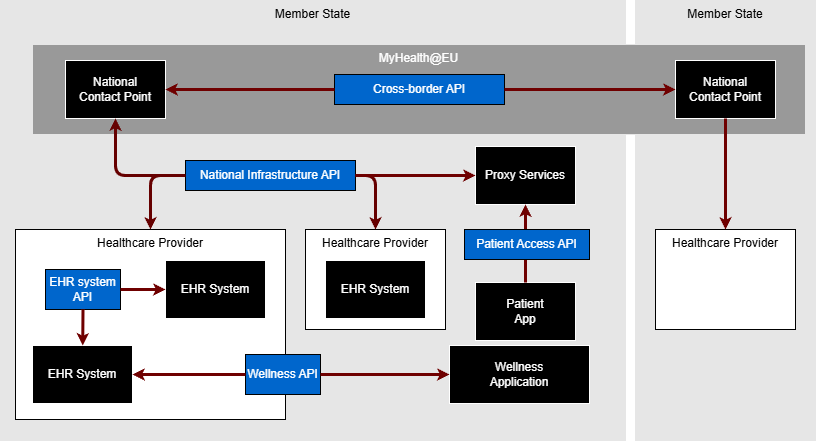
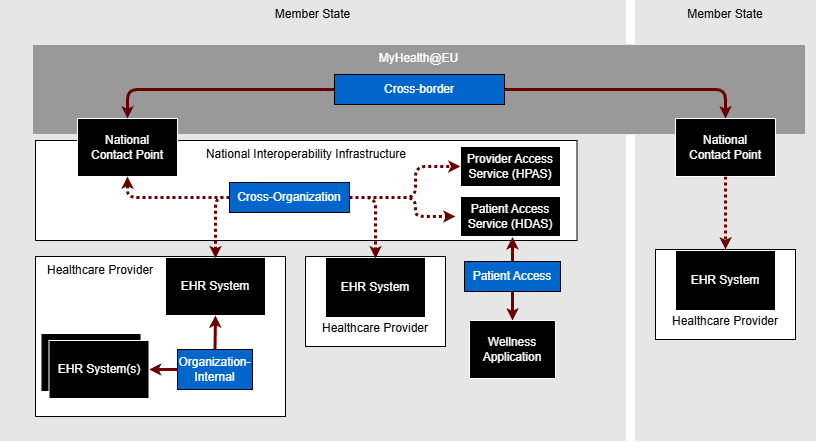
Clarify implementation landscape

diff --git a/input/pagecontent/implementation.md b/input/pagecontent/implementation.md
@@ -1,71 +1,77 @@
-This IG defines the API contract for EHR systems under EHDS. Each layer of the EHDS data exchange chain carries distinct regulatory obligations. This page describes where the EHR system API fits, who is responsible for what, and how the use cases below map to that chain.
+This IG defines the API contract for EHR systems under EHDS. The EHR system API is one part of a broader interoperability landscape: Member States operate national and cross-border infrastructure, healthcare providers deploy EHR systems, and EHR systems expose interoperability component capabilities that national and access-service infrastructure can use.
 
-### The EHDS Data Exchange Chain
+### The EHDS Interoperability Landscape
 
-EHDS data flows through several layers, from individual EHR systems up to cross-border exchange between Member States. The layers are:
+The diagram below shows the main EHDS actors and the API boundaries between them. Blue boxes represent API or scenario boundaries discussed by this IG.
 
----
+<div>
+  <figure class="figure">
+    <svg xmlns="http://www.w3.org/2000/svg" viewBox="0 0 816 442" class="figure-img img-responsive img-rounded center-block" style="max-width:100%; height:auto;" role="img" aria-labelledby="ehds-overview-title ehds-overview-desc">
+      <title id="ehds-overview-title">EHDS Overview</title>
+      <desc id="ehds-overview-desc">Overview diagram of EHDS deployment scenarios with links to related implementation pages.</desc>
+      <image href="EHDS-overview.drawio.png" width="816" height="442" preserveAspectRatio="xMidYMid meet" />
+      <a href="usecase-cross-border-ncp.html"><title>Cross-Border via NCP</title><rect x="334" y="74" width="170" height="30" fill="transparent" pointer-events="all" /></a>
+      <a href="usecase-cross-border-ncp.html"><title>National Contact Point</title><rect x="77" y="118" width="100" height="58" fill="transparent" pointer-events="all" /></a>
+      <a href="usecase-cross-border-ncp.html"><title>National Contact Point</title><rect x="675" y="118" width="100" height="58" fill="transparent" pointer-events="all" /></a>
+      <a href="member-state-architectures.html"><title>National Interoperability Infrastructure</title><rect x="35" y="140" width="542" height="100" fill="transparent" pointer-events="all" /></a>
+      <a href="usecase-cross-org.html"><title>Cross-Organization via National Infrastructure</title><rect x="229" y="182" width="120" height="30" fill="transparent" pointer-events="all" /></a>
+      <a href="usecase-health-professional-portal.html"><title>Health Professional Access Service</title><rect x="460" y="146" width="100" height="40" fill="transparent" pointer-events="all" /></a>
+      <a href="usecase-health-data-portal.html"><title>Health Data Access Service</title><rect x="460" y="196" width="100" height="40" fill="transparent" pointer-events="all" /></a>
+      <a href="usecase-health-data-portal.html"><title>Patient Access</title><rect x="464" y="261" width="96" height="30" fill="transparent" pointer-events="all" /></a>
+      <a href="usecase-wellness-app.html"><title>Wellness App Access</title><rect x="469" y="320" width="86" height="58" fill="transparent" pointer-events="all" /></a>
+      <a href="usecase-ehr-internal.html"><title>Organization-Internal Exchange</title><rect x="177" y="349" width="75" height="40" fill="transparent" pointer-events="all" /></a>
+    </svg>
+    <figcaption class="figure-caption"><em>Figure: EHDS Overview</em></figcaption>
+  </figure>
+  <p></p>
+</div>
 
-**EHR System** — *This IG*
+### EHDS Actors
 
-EHR systems store and serve patient health data in EEHRxF format. EHDS [Annex II §2.1–2.6](https://eur-lex.europa.eu/legal-content/EN/TXT/?uri=CELEX:32025R0327#anx_II) requires EHR systems to provide an API for access to and receipt of priority-category data. This IG specifies that API. EHR vendors demonstrate conformance via CE-marking self-declaration ([Arts. 25, 30, 39–41](https://eur-lex.europa.eu/legal-content/EN/TXT/?uri=CELEX:32025R0327)).
+**Member States** — *Infrastructure obligations*
 
-**Healthcare Organization** — *Described; not specified*
+Member States are responsible for operating the national and cross-border infrastructure that makes EHDS primary-use exchange work. In this landscape, that includes:
 
-Healthcare providers deploy one or more EHR systems. They connect those systems to national infrastructure. How they connect — directly, through an organizational gateway, or through a vendor-supplied facade — is an organizational decision. This IG describes common patterns but does not mandate a specific approach.
+- **MyHealth@EU and National Contact Points (NCPs):** Member States connect to the MyHealth@EU network through NCPs for cross-border exchange ([Art. 23](https://eur-lex.europa.eu/legal-content/EN/TXT/?uri=CELEX:32025R0327)). NCP-to-NCP exchange is governed by the [NCPeH API specification](https://build-fhir.ehdsi.eu/ncp-api/), not by this IG.
 
-**National Interoperability Infrastructure** — *Out of scope — Member State obligation*
+- **Access services:** Member States operate services for patient access and health professional access, including an Electronic Health Data Access Service ([Art. 4](https://eur-lex.europa.eu/legal-content/EN/TXT/?uri=CELEX:32025R0327)) and a Health Professional Access Service ([Art. 12](https://eur-lex.europa.eu/legal-content/EN/TXT/?uri=CELEX:32025R0327)). These services can act as consumers of the EHR system API; their service requirements are not specified here.
 
-Each Member State operates infrastructure that connects healthcare organizations to access services and to cross-border networks. This infrastructure may include document repositories, federated query layers, master patient indexes (MPIs), and authorization services. The design varies by Member State. [Art. 23](https://eur-lex.europa.eu/legal-content/EN/TXT/?uri=CELEX:32025R0327) places this obligation on Member States, not on EHR vendors. National infrastructure acts as a *consumer* of this IG's API; its own requirements are not specified here.
+- **National interoperability infrastructure:** Member States define how healthcare providers connect and how EEHRxF data is located, routed, aggregated, authorized, and exchanged nationally. This may include federated query services, central repositories, record locators, patient identity services, and authorization infrastructure. Those national architecture choices are out of scope for this IG, but this IG defines the EHR system API surface that such infrastructure can consume.
 
-**Access Services (EHDAS / HPAS)** — *Out of scope — Member State obligation*
+**Healthcare providers** — *EHR system deployment*
 
-Member States must establish an Electronic Health Data Access Service ([Art. 4](https://eur-lex.europa.eu/legal-content/EN/TXT/?uri=CELEX:32025R0327)) for patient access and a Health Professional Access Service ([Art. 12](https://eur-lex.europa.eu/legal-content/EN/TXT/?uri=CELEX:32025R0327)) for clinician access. Access services act as consumers of this IG's API. Wellness applications and patient apps connect through access service infrastructure, not directly to EHR systems. Access service requirements are out of scope for this IG.
+Healthcare providers deploy one or more EHR systems to support care delivery. They may expose the EHR system API directly, through an organizational gateway, through a vendor-supplied facade, or through a national infrastructure connection. This IG describes those deployment patterns but does not mandate the provider's internal architecture.
 
-**EHR System Implementation Approach** — *See [Relationship to XDS/FHIR Document Sharing](background-xds-fhir.html)*
+**EHR systems** — *EHDS interoperability component capability*
 
-EHR systems may implement this IG using a FHIR server (documents assembled on demand from clinical resources) or a document-centric system (documents persisted, optionally backed by XDS/XCA). Both approaches share the same API contract. This choice is orthogonal to organizational deployment topology.
+EHR systems are the product-level conformance target for this IG. EHDS [Annex II §2.1–2.6](https://eur-lex.europa.eu/legal-content/EN/TXT/?uri=CELEX:32025R0327#anx_II) requires EHR systems to provide and receive priority-category data in EEHRxF format through the European interoperability software component. This IG specifies the FHIR API contract for that capability.
 
----
+An EHR system may implement the API directly, or the capability may be delivered by an associated gateway or facade that is treated as part of the deployed EHR system capability. The backend implementation can be FHIR-server based, document-centric, XDS/XCA-backed, or hybrid; see [Relationship to XDS/FHIR Document Sharing](background-xds-fhir.html).
 
-**Cross-Border Exchange (MyHealth@EU / NCP)** — *Out of scope — separate specification*
+**Patient apps and wellness applications** — *Application-facing access*
 
-National Contact Points exchange data across borders via the MyHealth@EU network ([Art. 23](https://eur-lex.europa.eu/legal-content/EN/TXT/?uri=CELEX:32025R0327)). NCP-to-NCP exchange is governed by the [NCPeH API specification](https://build-fhir.ehdsi.eu/ncp-api/), not this IG. The national infrastructure layer connects EHR systems to the NCP; the EHR system API is the entry point at the bottom of that chain.
-
----
+Patient-facing applications and wellness applications interact with EHDS data through access-service infrastructure. This IG describes read access patterns using the same document and resource API transactions, but patient authentication, SMART App Launch mechanics, EU wallet integration, and patient data submission are outside this IG's scope. See [Wellness App Access](usecase-wellness-app.html) for the current boundary.
 
 ### Use Cases
 
-The following pages describe how this IG's API is used in specific deployment contexts. Each covers actors, workflow, technical flow, and scope boundaries.
+The pages below explain how the EHR system API appears in specific deployment scenarios. Each page identifies the actors involved, the technical flow, and what is deliberately out of scope.
 
-#### EHR System Deployment
+#### Deployment Scenarios
 
-- [**Organization-Internal Exchange**](usecase-ehr-internal.html) — EHR systems within a healthcare provider: direct deployment, gateway, and multi-product facade patterns.
+- [**Organization-Internal Exchange**](usecase-ehr-internal.html) — EHR systems within a healthcare provider. Covers direct deployment, organizational gateways, and multi-product facades. Scope: how a healthcare provider presents an EHR system API capability; not the provider's internal product architecture.
 
-- [**Cross-Organization via National Infrastructure**](usecase-cross-org.html) — EHR systems as nodes in national health data infrastructure; federated and central-repository patterns.
+- [**Cross-Organization via National Infrastructure**](usecase-cross-org.html) — EHR systems as nodes in Member State infrastructure. Covers federated query and central-repository patterns. Scope: how national infrastructure consumes the EHR system API; not a national infrastructure specification.
 
-- [**Cross-Border via NCP**](usecase-cross-border-ncp.html) — EU cross-border exchange via National Contact Points and MyHealth@EU.
+- [**Cross-Border via NCP**](usecase-cross-border-ncp.html) — Cross-border exchange through MyHealth@EU and National Contact Points. Scope: how this IG supports the national-side retrieval step; not the NCP-to-NCP API.
 
-#### Access Service Contexts
+#### Access Service Scenarios
 
-- [**Health Professional Access Service**](usecase-health-professional-portal.html) — Healthcare professionals accessing EEHRxF data through a professional portal.
+- [**Health Professional Access Service**](usecase-health-professional-portal.html) — Health professionals access EEHRxF data through a Member State access service. Scope: HPAS as a consumer of the EHR system API; not HPAS product requirements.
 
-- [**Health Data Access Service**](usecase-health-data-portal.html) — Patients accessing their health data through a national access service.
+- [**Health Data Access Service**](usecase-health-data-portal.html) — Patients access their own health data through a Member State access service. Scope: HDAS as a consumer of the EHR system API; not patient portal UX, identity proofing, or national consent policy.
 
-- [**Wellness App Access**](usecase-wellness-app.html) — Patient-facing applications reading health data; authentication brokered by access service infrastructure.
+- [**Wellness App Access**](usecase-wellness-app.html) — Wellness or personal health applications read patient data through access-service infrastructure. Scope: read access using this IG's API transactions; not patient-submitted write flows.
 
 #### Walkthrough
 
-- [**Retrieve a European Patient Summary**](example-patient-summary.html) — Step-by-step walkthrough of the complete document access flow.
-
-### Actor Summary
-
-All use cases use the actors defined in [Actors and Transactions](actors.html):
-
-| Actor | Role |
-|---|---|
-| [Document Publisher](actors.html#document-publisher) | Produces and submits EEHRxF documents |
-| [Document Access Provider](actors.html#document-access-provider) | Serves document query and retrieval |
-| [Document Consumer](actors.html#document-consumer) | Queries and retrieves documents |
-| [Resource Access Provider](actors.html#resource-access-provider) | Serves individual FHIR resource queries |
-| [Resource Consumer](actors.html#resource-consumer) | Queries individual FHIR resources |
+- [**Retrieve a European Patient Summary**](example-patient-summary.html) — Step-by-step walkthrough of authorization, patient lookup, document query, and document retrieval for a European Patient Summary.